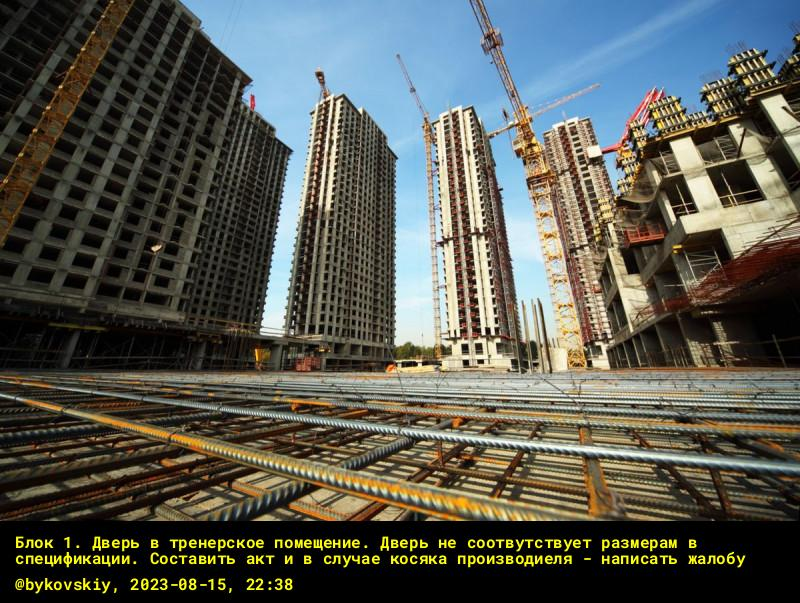
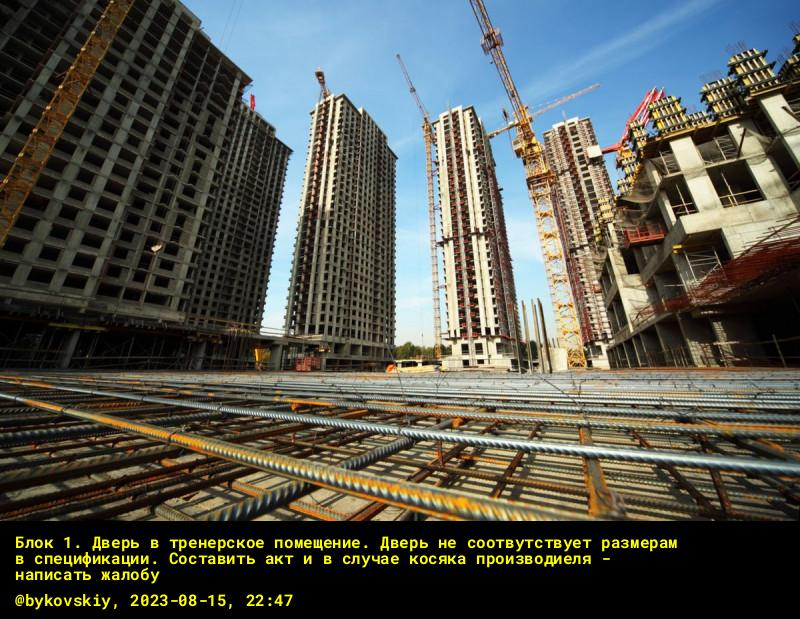
update

diff --git a/main.py b/main.py
@@ -68,6 +68,7 @@ def main():
     spacing = 1
     
     image = Image.open(f'./images/{image_name}')
+    #font, fontsize = get_dynamic_fontsize(image, text, font_name)
     
     image_wrapper, bound_size = make_wrapper(fontsize, text, image, spacing, padding_bottom)
     text_start_height = image_wrapper.height - int(bound_size) + padding_top

diff --git a/README.md b/README.md
@@ -1,1 +1,16 @@
 # Polaroid-Converter-Py
+
+Запуск: python main.py {image_name}.{format} {user_name} {text:OPTIONAL}
+* {text} является опциональным, если не указан, то текст используется по умолчанию.
+_____
+Примеры запуска:
+* python main.py main.png bykovskiy
+* python main.py main3.jpg bykovskiy 'Блок 1. Дверь в тренерскую'
+
+_____
+Структура проекта:
+
+* Фото для обработки находятся в images
+* Результаты обработки фото находятся в results
+* Шрифты нахоядся в fonts, переменная font_name отвечает за используемый шрифт (источник шрифтов: https://fonts.google.com/)
+
